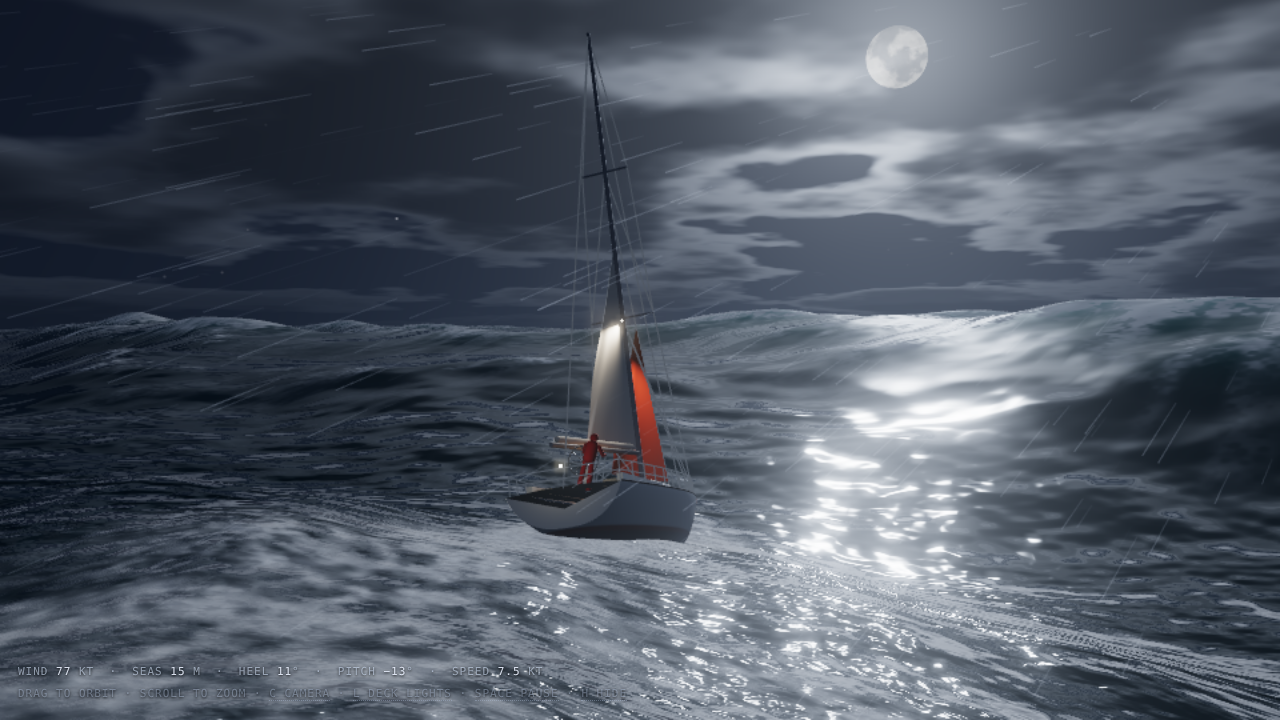
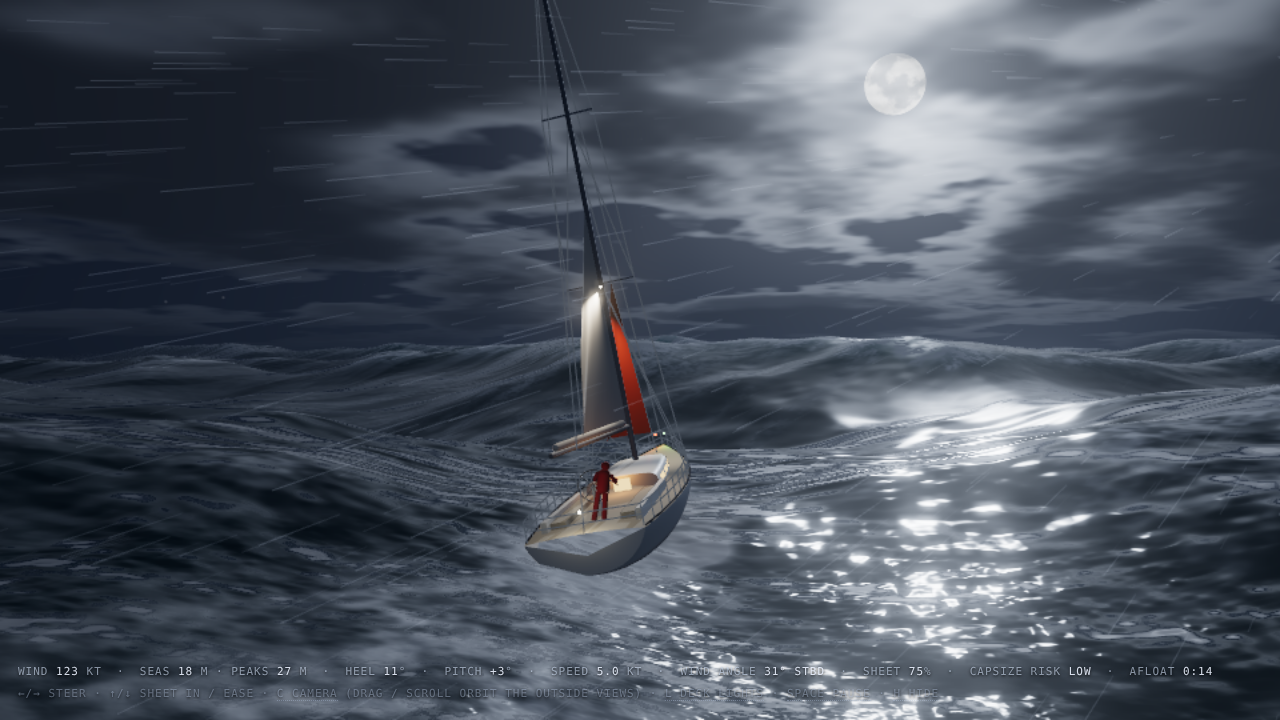
Model the sea and wind on Hurricane Ivan
Twelve wave trains with cross seas: significant height 17.9 m and
occasional waves near 27 m, matching the 2004 measurements. Wind raised
to about 109 kt, with heavier rain, more spray and foam, and thicker cloud.

Claude-Session: https://claude.ai/code/session_016x3M1aSu2E7aufHHPgr1FL

diff --git a/index.html b/index.html
@@ -41,7 +41,7 @@
 </head>
 <body>
 <div id="hud">
-  <div>Wind <b id="h-wind">--</b> kt &nbsp;·&nbsp; Seas <b>23</b> m · peaks <b>27</b> m &nbsp;·&nbsp; Heel <b id="h-heel">--</b>° &nbsp;·&nbsp; Pitch <b id="h-pitch">--</b>° &nbsp;·&nbsp; Speed <b id="h-sog">--</b> kt &nbsp;·&nbsp; Wind angle <b id="h-twa">--</b> &nbsp;·&nbsp; Sheet <b id="h-trim">--</b>% &nbsp;·&nbsp; Capsize risk <b id="h-risk">--</b> &nbsp;·&nbsp; Afloat <b id="h-afloat">0:00</b></div>
+  <div>Wind <b id="h-wind">--</b> kt &nbsp;·&nbsp; Seas <b>18</b> m · peaks <b>27</b> m &nbsp;·&nbsp; Heel <b id="h-heel">--</b>° &nbsp;·&nbsp; Pitch <b id="h-pitch">--</b>° &nbsp;·&nbsp; Speed <b id="h-sog">--</b> kt &nbsp;·&nbsp; Wind angle <b id="h-twa">--</b> &nbsp;·&nbsp; Sheet <b id="h-trim">--</b>% &nbsp;·&nbsp; Capsize risk <b id="h-risk">--</b> &nbsp;·&nbsp; Afloat <b id="h-afloat">0:00</b></div>
   <div class="keys">←/→ steer · ↑/↓ sheet in / ease · <span data-k="c">C camera</span> (drag / scroll orbit the outside views) · <span data-k="l">L deck lights</span> · <span data-k=" ">Space pause</span> · <span data-k="h">H hide</span></div>
 </div>
 <div id="msg" role="status" aria-live="assertive"><h1>Capsized</h1><p id="msg-why"></p><p>Starting over in <b id="msg-n">5</b></p></div>
@@ -82,15 +82,18 @@ const scene = new THREE.Scene();
 const camera = new THREE.PerspectiveCamera(42, innerWidth / innerHeight, 0.3, 20000);
 
 /* ───────────────────────────── Sea state ─────────────────────────────
-   Eight trochoidal (Gerstner) wave trains. Significant wave height ≈ 23 m
-   (the big seas run 22–25 m crest to trough, the largest about 27 m), dominant period ≈ 12 s — a mature hurricane sea. The same table drives
-   the GPU surface and the CPU buoyancy model.                              */
-const G = 9.81, STEEP = 0.92;
-const WIND = new V3(-36, 0, 2.5);            // m/s (≈ 70 kt), blowing toward −x
+   Modelled on Hurricane Ivan as measured in the Gulf of Mexico on 15 Sept 2004 (Wang et al., Science 2005):
+   a category 4 storm with winds near 200 km/h, significant wave height 17.9 m and a largest single wave
+   of 27.7 m. Twelve trochoidal (Gerstner) wave trains — five of similar size near the dominant wavelength,
+   so they drift in and out of step and occasionally stack into a ~27 m sea, plus cross seas well off the
+   wind. The same table drives the GPU surface and the CPU buoyancy model.                                */
+const G = 9.81, STEEP = 0.82;
+const WIND = new V3(-56, 0, 4);              // m/s (≈ 109 kt), blowing toward −x
 const WAVES = [
   // wavelength (m), amplitude (m), heading offset (deg)
-  [224, 7.20,   0], [150, 3.80,  16], [ 96, 2.02, -22], [ 62, 0.99,  31],
-  [ 38, 0.544, -37], [ 23, 0.293, 11], [ 14, 0.156, -50], [8.5, 0.081, 44],
+  [300, 2.67,  -8], [230, 2.67,   6], [190, 2.67,  -3], [160, 2.67,  12],
+  [125, 2.67, -18], [ 95, 1.94,  24], [ 70, 1.55, -34], [ 50, 1.03,  48],
+  [ 34, 0.62, -52], [ 22, 0.36,  20], [ 14, 0.204, -60], [8.5, 0.104, 44],
 ].map(([L, A, deg], i) => {
   const a = Math.PI + deg * Math.PI / 180, k = 2 * Math.PI / L;
   return { L, A, k, dx: Math.cos(a), dz: Math.sin(a), om: Math.sqrt(G * k), ph: i * 1.713 + 0.4 };
@@ -139,7 +142,7 @@ function fbm5JS(x, y) {
 }
 
 const MOON_DIR = new V3().setFromSphericalCoords(1, THREE.MathUtils.degToRad(90 - 15.5), THREE.MathUtils.degToRad(90 + 31)).normalize();
-const CLOUD_SCALE = 1.05, CLOUD_COVER = 0.43;
+const CLOUD_SCALE = 1.05, CLOUD_COVER = 0.405;
 
 const U = {
   uNoise: { value: noiseTex },
@@ -327,7 +330,7 @@ const oceanU = {
   uPix: { value: 0.001 },
 };
 const oceanVert = /* glsl */`
-#define NW 8
+#define NW 12
 uniform vec4 uWaveA[NW];
 uniform vec2 uWaveB[NW];
 uniform vec2 uOffset;
@@ -351,7 +354,7 @@ void main(){
   gl_Position = projectionMatrix*viewMatrix*vec4(p, 1.0);
 }`;
 const oceanFrag = /* glsl */`
-#define NW 8
+#define NW 12
 ${GLSL_SKY}
 uniform vec4 uWaveA[NW];
 uniform vec2 uWaveB[NW];
@@ -431,7 +434,7 @@ void main(){
   // ── water body: near-black, with moonlight bleeding through thin crests
   float NdL = max(dot(N, uMoonDir), 0.0);
   vec3 body = vec3(0.0025, 0.0085, 0.014)*(0.5 + 0.5*uMoonVis) + vec3(0.001, 0.006, 0.009)*NdL*moonLit;
-  float crest = smoothstep(-1.0, 12.0, vWorld.y);
+  float crest = smoothstep(-1.0, 11.0, vWorld.y);
   float toward = pow(max(dot(V, -normalize(vec3(uMoonDir.x, 0.0, uMoonDir.z))), 0.0), 3.0);
   body += vec3(0.004, 0.050, 0.055)*toward*crest*moonLit*(0.35 + 0.65*(1.0 - smoothstep(0.5, 0.85, J)));
 
@@ -450,7 +453,7 @@ void main(){
   float sA = 0.6*vnoise(vec2(wuv.x*0.010 - uTime*0.05, wuv.y*0.20)) + 0.4*vnoise(vec2(wuv.x*0.022 - uTime*0.09, wuv.y*0.47) + 3.3);
   float sB = mix(0.5, vnoise(vec2(wuv.x*0.035 - uTime*0.15, wuv.y*0.95) + 7.3), band(2.2, fp));
   float sP = vnoise(vP0*0.021 + 31.7);
-  float streak = smoothstep(0.47, 0.68, sA*0.72 + sB*0.28)*smoothstep(0.22, 0.60, sP)*(0.30 + 0.70*(1.0 - smoothstep(0.70, 1.02, J)));
+  float streak = smoothstep(0.41, 0.63, sA*0.72 + sB*0.28)*smoothstep(0.10, 0.50, sP)*(0.30 + 0.70*(1.0 - smoothstep(0.70, 1.02, J)));
   streak *= (0.45 + 0.75*fn)*(1.0 - smoothstep(600.0, 2200.0, dist));
   // hull wash + wake (boat sits at the scene origin)
   vec2 rel = vWorld.xz;
@@ -471,7 +474,7 @@ void main(){
   col = mix(col, foamCol, foam);
 
   // ── spray-laden air
-  float fog = 1.0 - exp(-dist*0.00072);
+  float fog = 1.0 - exp(-dist*0.00110);
   col = mix(col, horizonColor(-V), fog);
   gl_FragColor = vec4(col, 1.0);
 }`;
@@ -758,7 +761,7 @@ scene.add(new THREE.HemisphereLight(new THREE.Color(0.20, 0.27, 0.40), new THREE
 /* ───────────────────────────── Rain ───────────────────────────── */
 const RAIN_VEL = new V3(WIND.x * 0.85, -10.5, WIND.z * 0.85);
 const rain = (() => {
-  const N = 6500, seed = new Float32Array(N * 2 * 3), end = new Float32Array(N * 2);
+  const N = 9500, seed = new Float32Array(N * 2 * 3), end = new Float32Array(N * 2);
   for (let i = 0; i < N; i++) {
     const a = Math.random(), b = Math.random(), c = Math.random();
     for (let e = 0; e < 2; e++) { seed.set([a, b, c], (i * 2 + e) * 3); end[i * 2 + e] = e; }
@@ -779,7 +782,7 @@ const rain = (() => {
         p -= normalize(uVel)*aEnd*(0.55 + 0.7*sp);
         vec3 tc = p - cameraPosition; float d = length(tc);
         float fwd = pow(max(dot(tc/d, uMoonDir), 0.0), 3.0);
-        vA = (1.0 - smoothstep(16.0, 32.0, d))*smoothstep(2.0, 7.0, d)*(0.012 + uMoonVis*(0.012 + 0.085*fwd))*(1.0 - 0.6*aEnd);
+        vA = (1.0 - smoothstep(16.0, 32.0, d))*smoothstep(2.0, 7.0, d)*(0.016 + uMoonVis*(0.015 + 0.10*fwd))*(1.0 - 0.6*aEnd);
         gl_Position = projectionMatrix*viewMatrix*vec4(p, 1.0);
       }`,
     fragmentShader: /* glsl */`varying float vA; void main(){ gl_FragColor = vec4(vec3(0.72, 0.82, 1.0)*vA, 1.0); }`,
@@ -880,7 +883,7 @@ function stepBoat(dt, t) {
   const H = (ax, az) => surfaceH(st.wx + ax, st.wz + az, t);
   const hC = H(0, 0), hB = H(fx * 5.6, fz * 5.6), hS = H(-fx * 5.6, -fz * 5.6), hR = H(rx * 1.8, rz * 1.8), hL = H(-rx * 1.8, -rz * 1.8);
   st.gust = 0.5 + 0.5 * Math.sin(t * 0.41) * Math.sin(t * 0.87 + 1.3) + 0.15 * Math.sin(t * 2.3);
-  const exposed = sstep(-9.0, 5.5, st.y);                           // sheltered in the troughs, hammered on the crests
+  const exposed = sstep(-8.0, 5.0, st.y);                           // sheltered in the troughs, hammered on the crests
   // helm and sails: ←/→ rudder, ↑/↓ sheet in / ease. The sails set themselves to the wind angle.
   const live = st.capsized ? 0 : 1;
   st.rudder += (((keys.left ? 1 : 0) - (keys.right ? 1 : 0)) * live - st.rudder) * Math.min(1, dt * 3.5);
@@ -892,7 +895,7 @@ function stepBoat(dt, t) {
   st.luff = 1 - sstep(0.30, 0.56, aw);                             // head to wind: sails flog, no drive
   const sgn = st.side >= 0 ? 1 : -1;
   const heelK = sstep(0.17, 0.6, aw) * (1 - 0.72 * sstep(1.75, 2.95, aw)) * (0.35 + 0.87 * st.trim);
-  st.heel = -st.side * (0.20 + 0.28 * exposed * (0.78 + 0.22 * st.gust)) * heelK;
+  st.heel = -st.side * (0.24 + 0.30 * exposed * (0.78 + 0.22 * st.gust)) * heelK;
   const boomT = -st.side * clamp((0.5 * aw + 0.03) * (1.45 - 0.6 * st.trim), 0.09, 1.38) + 0.07 * st.luff * Math.sin(t * 5.3);
   st.boom += (boomT - st.boom) * Math.min(1, dt * 4);
   boomG.rotation.y = st.boom;
@@ -974,7 +977,7 @@ function stepSpray(dt, t) {
       emit(_v.x, _v.y + 0.3, _v.z, -4 + Math.random() * 3, 3 + Math.random() * 5, (Math.random() - 0.5) * 3, 1 + Math.random() * 1.2, 0.6 + Math.random() * 0.9, 0.20 + Math.random() * 0.22);
   }
   // spindrift torn off breaking crests
-  for (let i = 0; i < 46 * fr; i++) {
+  for (let i = 0; i < 75 * fr; i++) {
     const a = Math.random() * 6.283, r = 6 + Math.pow(Math.random(), 0.6) * 150, sx = Math.cos(a) * r, sz = Math.sin(a) * r;
     waveDisp(sx + st.wx, sz + st.wz, t, _d, true);
     if (_d.J < 0.68 && _d.y > 0.0) {
@@ -1019,7 +1022,7 @@ function stepGame(dt) {
 }
 let moonVisS = 1;
 function stepSky(dt, t) {
-  U.uCloudOff.value.set(4.2 + t * 0.034, 1.7 + t * 0.010, 0.6 + t * 0.011, 2.9 + t * 0.004);
+  U.uCloudOff.value.set(4.2 + t * 0.052, 1.7 + t * 0.016, 0.6 + t * 0.017, 2.9 + t * 0.006);
   const vis = 0.25 + 0.62 * Math.exp(-cloudDensJS(MOON_DIR) * 2.2);
   moonVisS = lerp(moonVisS, vis, 1 - Math.exp(-dt * 2.5));
   U.uMoonVis.value = moonVisS;
@@ -1123,7 +1126,7 @@ function frame() {
   hudT += raw;
   if (hudT > 0.25) {
     hudT = 0;
-    $('h-wind').textContent = Math.round(66 + 16 * st.gust);
+    $('h-wind').textContent = Math.round(102 + 24 * st.gust);
     $('h-heel').textContent = Math.round(Math.min(Math.abs(st.roll), Math.PI) * 57.3);
     $('h-pitch').textContent = (st.pitch >= 0 ? '+' : '−') + Math.abs(Math.round(st.pitch * 57.3));
     $('h-sog').textContent = (st.speed * 1.944).toFixed(1);

diff --git a/README.md b/README.md
@@ -1,6 +1,6 @@
 # stormy-sea-night
 
-A single-file three.js scene: a 50 ft sloop under storm jib and deep-reefed main, working through hurricane seas running 22–25 m under a full moon and fast-moving cloud. You steer it from the helm.
+A single-file three.js scene: a 50 ft sloop under storm jib and deep-reefed main, working through seas and wind modelled on Hurricane Ivan (2004) under a full moon and fast-moving cloud. You steer it from the helm.
 
 ![View from the helm](captain-view.png)
 
@@ -35,9 +35,21 @@ To stay up:
 - Ease the sheets before turning across the waves, and when running downwind.
 - Pointing closer than about 22° to the wind stalls the boat "in irons".
 
+## Conditions
+
+The sea and wind follow what was measured when Hurricane Ivan crossed Naval Research Laboratory wave gauges in the Gulf of Mexico on 15 September 2004 (Wang et al., *Science*, 2005).
+
+| | Ivan, measured | This scene |
+|---|---|---|
+| Significant wave height | 17.9 m | 17.9 m |
+| Largest waves | 27.7 m | top 1% average about 27 m |
+| Wind | about 200 km/h (108 kt) | 109 kt, gusting higher |
+
+Two deliberate departures: the full moon still breaks through the cloud, where a real eyewall sky would be solid overcast, and the boat keeps its storm sails, which no sail would survive in that wind.
+
 ## How it works
 
-- Sea: eight Gerstner wave trains (dominant wavelength 224 m, period 12 s; significant height about 22 m, largest waves about 27 m), with normals and foam computed per pixel.
+- Sea: twelve Gerstner wave trains, including cross seas up to 60° off the wind, with normals and foam computed per pixel. Five trains of similar size near the dominant wavelength drift in and out of step, so the biggest waves arrive unpredictably.
 - Boat: heave, pitch and roll are driven by the same wave table the surface is drawn with.
 - Sailing: speed follows a simple polar by true wind angle and sheet trim; knockdowns come from breaking crests on the beam.
 - Sky: procedural moon, stars and cloud; moonlight dims as cloud crosses the moon.
